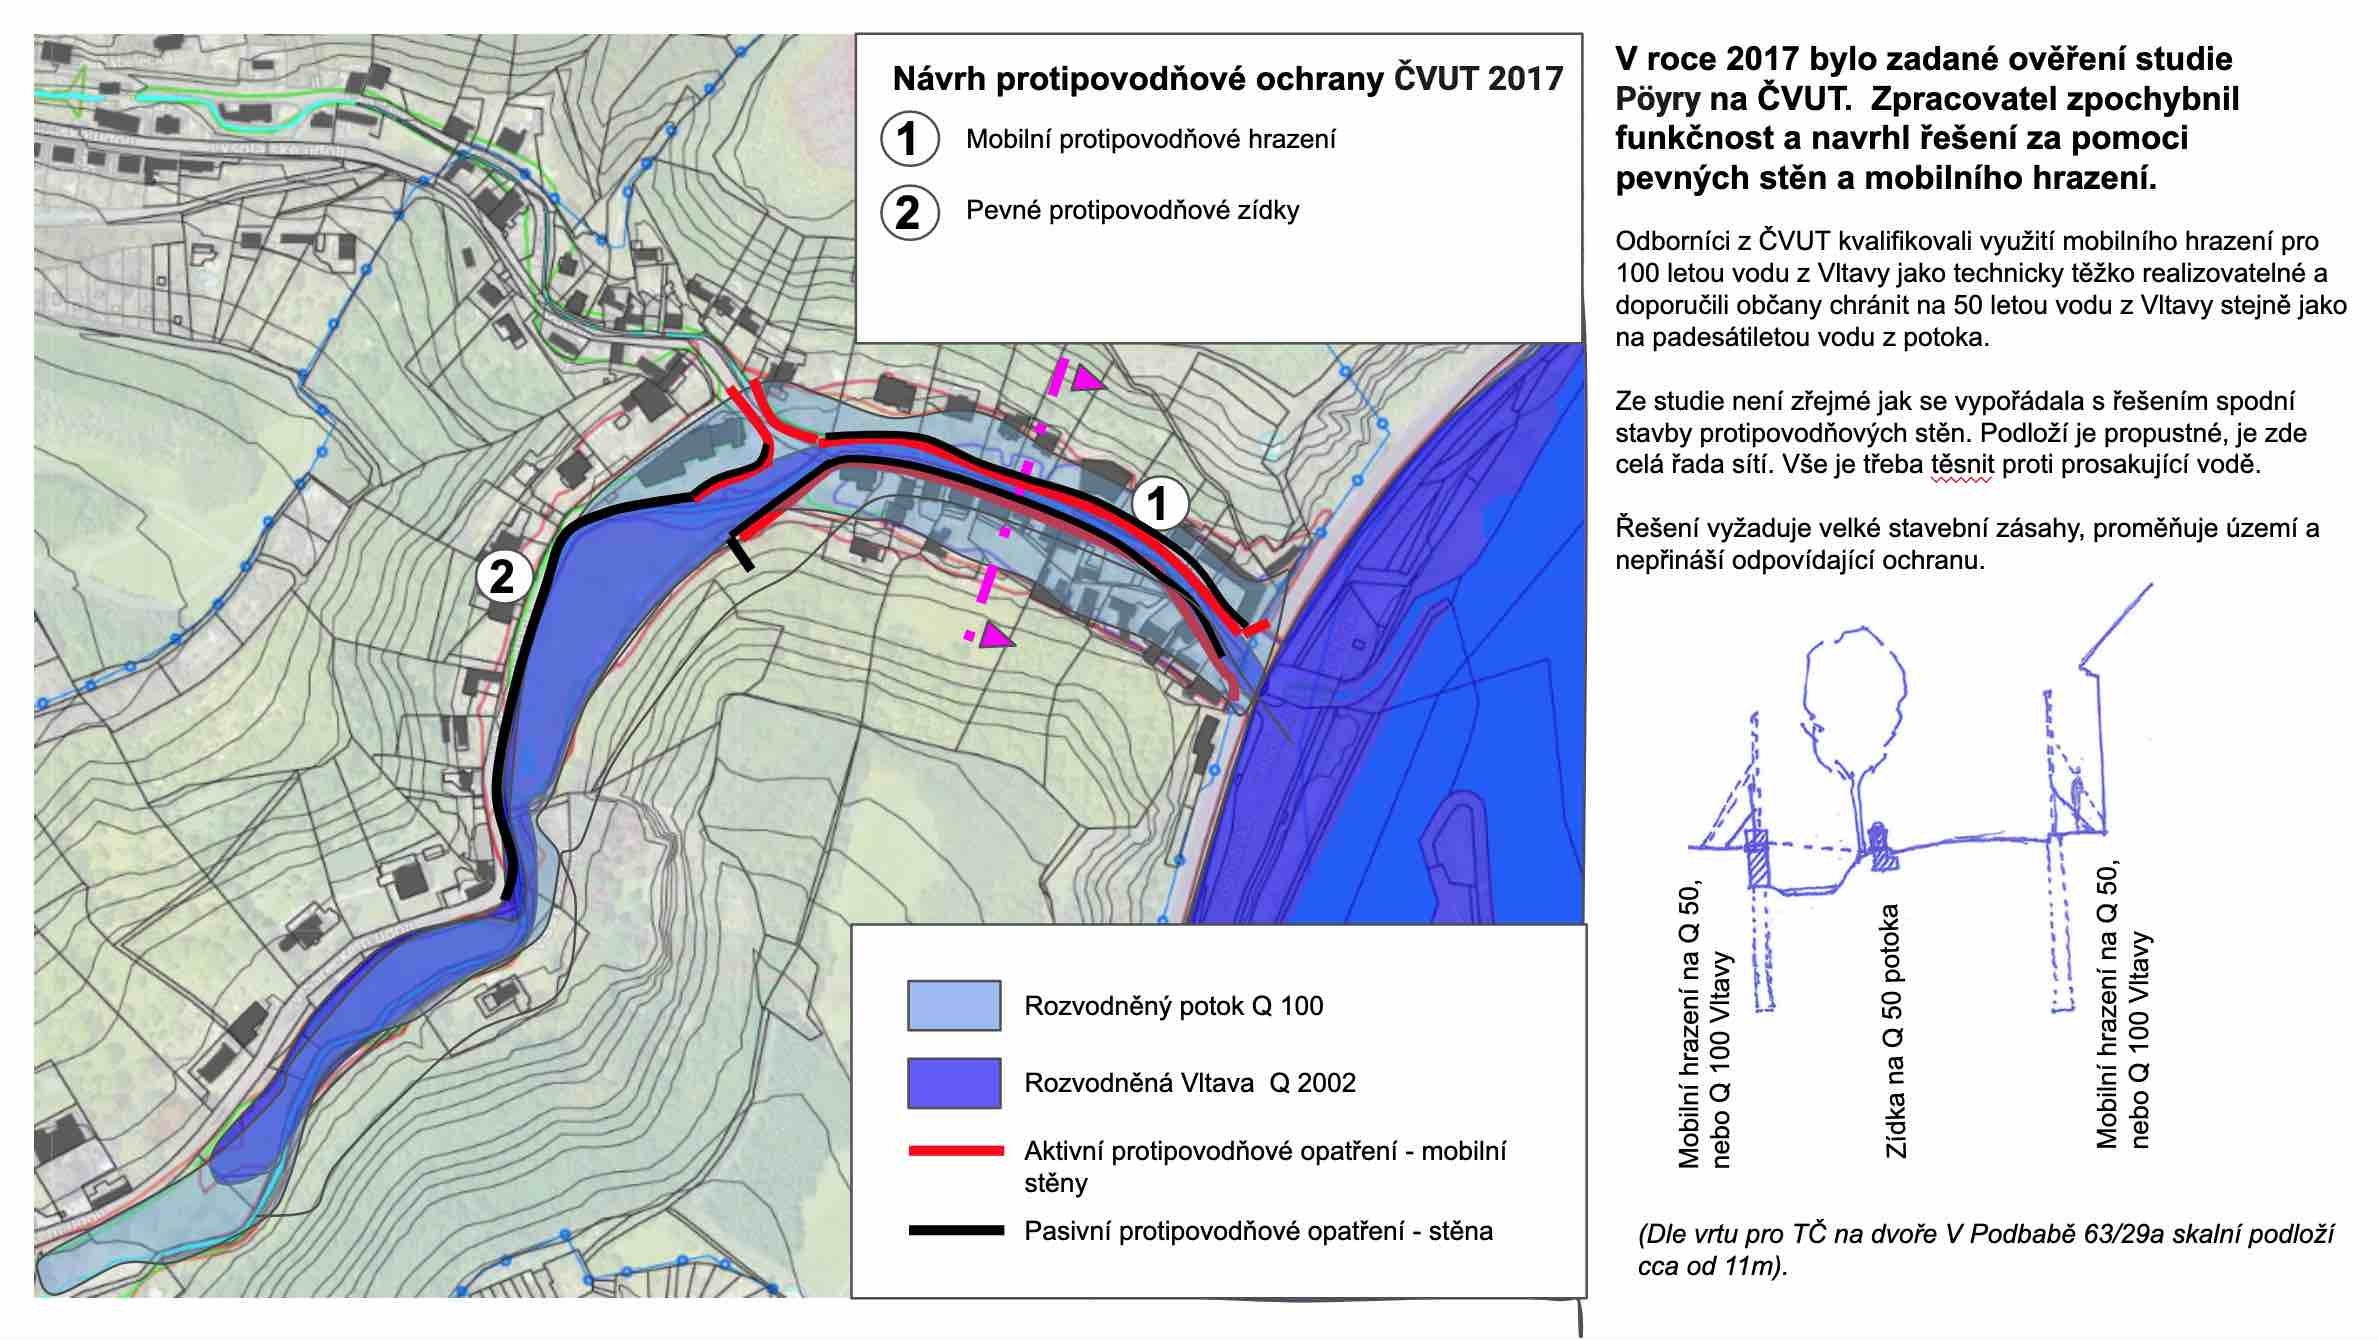
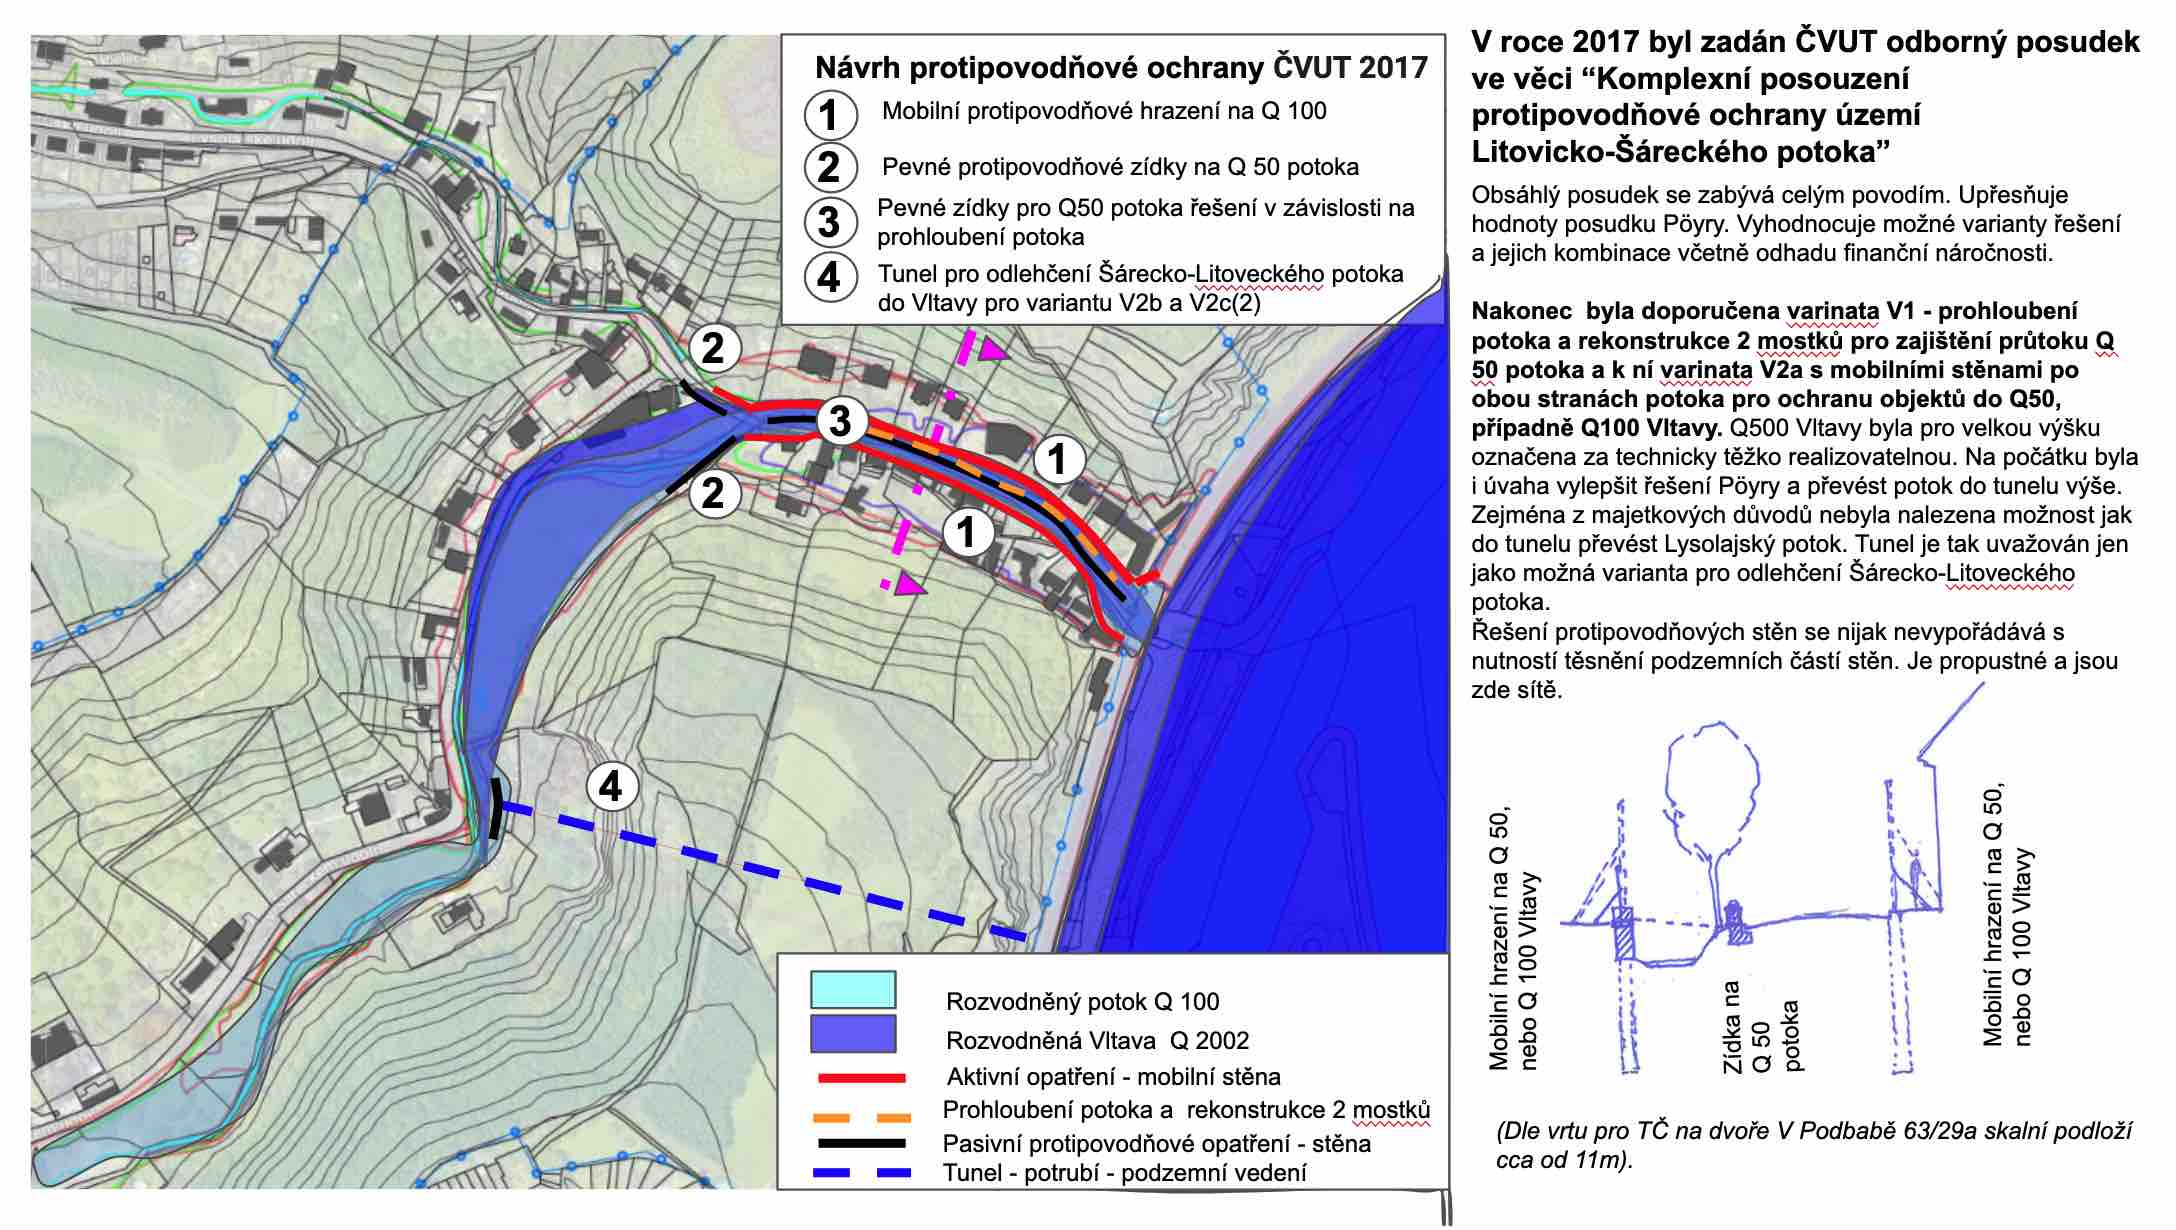
úpravy texty

diff --git a/protipovodnovky.html b/protipovodnovky.html
@@ -7,34 +7,41 @@ title: Vody po krk
     
 <h1>Protipovodňová opatření</h1>
 <h2>Protipovodňová opatření - územní studie Dolní-Tichá Šárka 2021</h2>
-<p>V roce 2018 MČ zadala zpracování územní studie na Šárecké údolí. Její součástí byl také požadavek na řešení protipovodňové ochrany. 
+<p>V roce 2018 MČ zadala zpracování územní studie na Šárecké údolí. Její součástí byl také požadavek na řešení protipovodňové ochrany. </p>
+<p>Zpracovatel axioHM s.r.o. vyšel z předchozích návrhů a doporučil ochranu, která zaručuje 100% pasivní ochranu před bleskovou povodní z potoka a aktivní ochranu proti vzedmuté vodě Vltavy na úroveň roku 2002. Nepřináší nové řešení, ale vhodně kombinuje již ověřované varianty s tím, že připouští zásah do soukromého majetku k zajištění potřebné protipovodňové ochrany.
 </p>
-<p>Zpracovatel axioHM s.r.o. vyšel z předchozích návrhů a doporučil ochranu, která zaručuje 100% pasivní ochranu před bleskovou povodní z potoka a aktivní ochranu proti vzedmuté vodě Vltavy na úroveň roku 2002. 
-</p>
-<p>Princip spočívá v podrovém oddělení v místě bývalého lomu. V případě bleskové povodně proteče do ul. V Podbabě jen neškodná 20letá voda. Ostatní voda přepadne do tunelu a odteče do Vltavy. V případě vzedmutí Vltavy bude vystavěno mobilní hrazení u viaduktu. Litovický potok by byl stavidlem odkloněn do navrženého tunelu a Lysolajský potok by byl přepuštěn do sadu, ve kterém nastoupá a začne přirozeně přepadat do tunelu. Pokud se Vltava vzedme nad úroveň 100 leté vody, pak bude přirozený přepad Lysolajského potoka uzavřen a voda se bude čerpat z retenční plochy v sadu do odtoku. 
-</p>
+<p>Princip spočívá v poldrovém oddělení v místě bývalého lomu. V případě bleskové povodně proteče do ul. V Podbabě jen neškodná 20 letá voda. Ostatní voda přepadne do tunelu a odteče do Vltavy. V případě vzdutí Vltavy bude vystavěno mobilní hrazení u viaduktu. Litovický potok by byl stavidlem odkloněn do navrženého tunelu a Lysolajský potok bude potrubím převeden do sadu, ve kterém nastoupá a začne přirozeně přepadat do tunelu. Pokud se Vltava vzedme nad úroveň 100 leté vody, pak bude třeba přirozený přepad Lysolajského potoka uzavřít a začít vodu z retenční plochy v sadu do odtoku přes tunel čerpat. 
+Podrobněji viz. prezentace. 
+    </p>
+    <p>Usnesení rady MČ P6 č. 3210/22 P6 ze 7. 2. 2022 požaduje po hl.m. Praze:   </p>
+    <p>1) prověření funkčnosti navrženého řešení a jeho dopracování na požadovanou  technickou a vodohospodářskou úroveň stran HMP ev. Povodí Vltavy. </p>
+    <p>2) zařazení prověřeného a dopracovaného řešení do seznamu protipovodňových opatření HMP k realizaci</p>
+    <p>3) zařadit předkládaný podnět do seznamu pořizovaných změn ÚPn SÚ HMP.  </p>
+   <p>Z předchozích studií vyplývá, že  technické i hydrotechnické řešení je možné. 
+    Pro další postup je nyní potřeba podrobněji konkretizovat technické parametry dle stavebních objektů a objemů a s nimi i upřesnit cenu a další postup realizace protipovodňových opatření. </p>
+    <p>Dopracování projektu dle bodu 1 na úroveň, která umožní nacenění, ověří vodohospodářské řešení a umožní potřebnou koordinaci, byl odhadnut na cca 750 tis. Kč. </p>
 <p><a class="button" href="/images/protipovodnovky_uzemni_studie.jpg">nákres</a></p>
 <p><a class="button" href="/images/uzemni_studie.pdf">celá studie</a></p>
+<p><a class="button" href="/images/protipovodnovky_studie_pozadavky.jpg">požadavky na koordinaci a dopracování</a></p>
 
 <h2>Protipovodňová opatření - ověřovací studie ČVUT 2017</h2>
-<p>Odborníci z ČVUT měli zadáno ověřit studii Pöyry. Zpochybnili funkčnost navrženého řešení Pöyry, a místo toho navrhli řešení pomocí pevné stěny podél potoka a mobilního hrazení, mezi kterým by uzavřeli vodu z rozvodněné Vltavy. Pro ochranu proti 100 leté vodě z Vltavy je však řešení technicky těžko realizovatelné, proto studie doporučuje občany chránit pouze proti 50 leté vodě z Vltavy a zároveň proti 50 leté vodě z potoka. 
+<p>V roce 2017 byl zadán ČVUT odborný posudek ve věci “Komplexní posouzení protipovodňové ochrany území Litovicko-Šáreckého potoka” </p>
+<p>Obsáhlý posudek se zabývá celým povodím. Upřesňuje hodnoty posudku Pöyry. Vyhodnocuje možné varianty řešení a jejich kombinace včetně odhadu finanční náročnosti. </p>
+<p>Nakonec  byla doporučena varinata V1 - prohloubení potoka a rekonstrukce 2 mostků pro zajištění průtoku Q 50 potoka a k ní varinata V2a s mobilními stěnami po obou stranách potoka pro ochranu objektů do Q50, případně Q100 Vltavy. Q500 Vltavy byla pro velkou výšku označena za technicky těžko realizovatelnou. Na počátku byla i úvaha vylepšit řešení Pöyry a převést potok do tunelu. Zejména z majetkových důvodů nebyla nalezena možnost, jak do tunelu převést Lysolajský potok. Tunel je tak uvažován jen jako možná varianta pro odlehčení Šárecko-Litoveckého potoka. 
 </p>
-<p>Ze studie není zřejmé, jak se vypořádala s řešením spodní stavby protipovodňových stěn. Podloží je propustné, je zde celá řada sítí. Vše je třeba těsnit proti prosakující vodě.
-
-Řešení navíc vyžaduje velké stavební zásahy, proměňuje území a nepřináší odpovídající ochranu proti Vltavě. 
-    </p>
+<p>Řešení protipovodňových stěn se nijak nevypořádává s nutností těsnění podzemních částí stěn. Je propustné a jsou zde sítě. </p>
     <p><a class="button" href="/images/protipovodnovky_CVUT.jpg">nákres</a></p>
     <p><a class="button" href="/images/studie_CVUT.pdf">celá studie</a></p>
     
 
 
 <h2>Protipovodňová opatření - vyhledávací studie Pöyry 2013</h2>
-<p>Firma Pöyry doporučila při povodni na Vltavě uzavřít viadukt mobilním hrazením a potok převést nátokovým objektem do tlakového potrubí, které by bylo vybudováno pod potokem. Vltava a potok by pak fungovaly na principu spojených nádob. Aby bylo řešení funkční, byla dále navržena kolem nátoku protipovodňová zídka. Pro snížení objemu vody v Šárecko-Litovickém potoku byla navržena řada poldrových opatření. Projekt měl být funkční i na stoletou vodu při povodni potoku. </p>
+<p>Firma Pöyry doporučila při povodni na Vltavě uzavřít viadukt mobilním hrazením a potok převést nátokovým objektem do tlakového potrubí, které by bylo vybudováno pod potokem. Vltava a potok by pak fungovaly na principu spojených nádob. Aby bylo řešení funkční, byla dále navržena kolem nátoku protipovodňová zídka. Pro snížení objemu vody v Šárecko-Litovickém potoku byla navržena řada poldrových opatření. Projekt měl být funkční i na stoletou vodu při povodni potoku. 
+</p>
     
-    <p>Funkčnost řešení byla následně zpochybněna další studií s tím, že: 
-    1. při bleskové povodni může být problém včas ovládat nátokový objekt. 
-    2. Nátokový objekt je nízko a princip průtoku spojenými nádobami nemusí úplně dobře fungovat. 
-    </p>
+    <p>Velkým přínosem této studie byl 1. komplexní pohled na povodí a odtokové poměry potoka, se kterými je nutné pracovat při návrhu protipovodňových opatření. 
+        Funkčnost navržené ochrany ul. V Podbabě byla následnou studií problematizována s tím, že nátokový objekt je nízko a princip průtoku spojenými nádobami nemusí úplně dobře fungovat.
+         </p>
  <p><a class="button" href="/images/protipovodnovky_Poyry.jpg">nákres</a></p>
 <p><a class="button" href="/images/studie_Poyry.pdf">celá studie</a></p>
 

diff --git a/aktualne/uzemni-studie.md b/aktualne/uzemni-studie.md
@@ -5,8 +5,6 @@ date: 2021-04-01T14:30
 perex: Územní studie Dolní-Tichá Šárka navrhla novou variantu protipovodňových opatření.
 tags: aktualne
 ---
-
-Nová varianta protipovodňových opatření
  
 V roce 2018 MČ zadala zpracování územní studie na Šárecké údolí. Její součástí byl také požadavek na řešení protipovodňové ochrany. 
 
